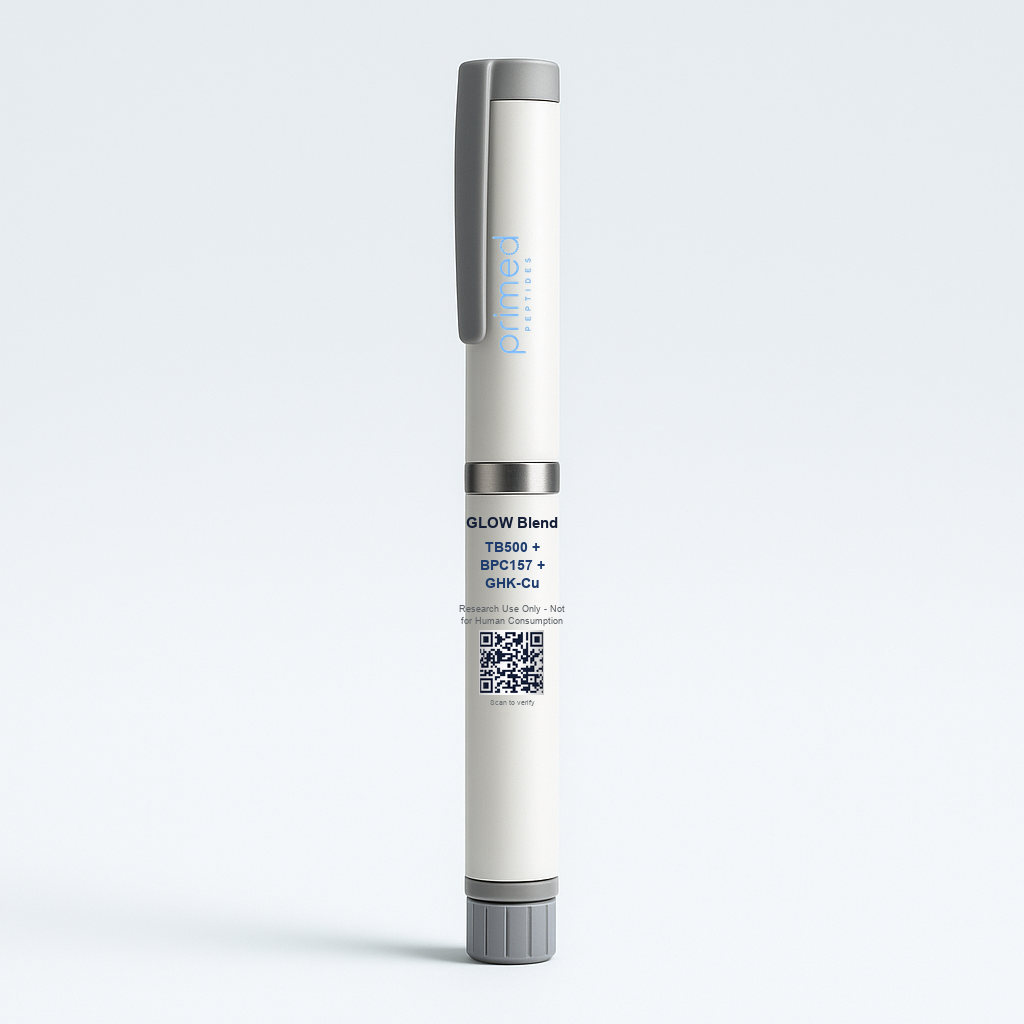
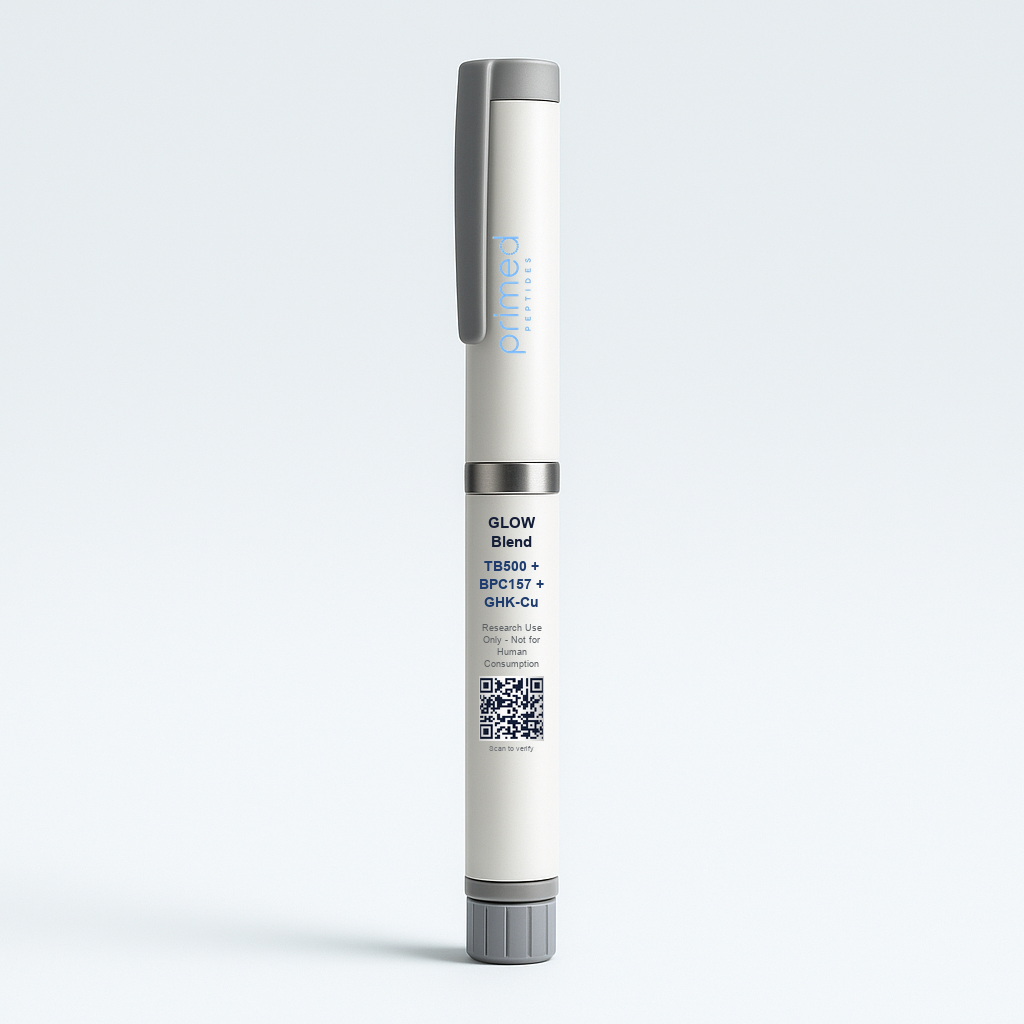
Fix pen-label text overflowing the real barrel width
LABEL_BOX (125px) is a loose estimate; rembg segmentation of the
master pen photo shows the real visible barrel is only ~93px wide
at every row in that region. A wrapped line could pass the box-width
check while still being wider than the whole physical barrel -
"Repair & Renewal" (109px) rendered half off the pen on Premium's
identical script, and GLOW's label had the same problem here.

Wrap/centre against the real measured barrel width now, with an
auto-shrinking font-fit fallback, and position the QR dynamically
below the text block instead of a fixed y (which collided with
fine print once labels started wrapping to more lines).

Changed region(s): [[0.4375, 0.5, 0.5625, 0.75]]

diff --git a/compose_pen_label.py b/compose_pen_label.py
@@ -39,6 +39,20 @@ LABEL_BOX = (450, 500, 575, 700)    # lower barrel segment, below silver band
 # so it's curved to look wrapped around the barrel instead of pasted flat.
 QR_BOX = (462, 630, 562, 695)
 
+# The LABEL_BOX above is a loose visual estimate; the pen's real visible
+# barrel within that y-range is much narrower (confirmed via rembg
+# segmentation of master_pen_blank.png: opaque pixels run x=465-558 at
+# every row from y=514 to y=690, a rock-steady ~93px). A wrapped line can
+# pass the box-width check (125px) while still being wider than the whole
+# physical barrel - this is the exact bug that put "Repair & Renewal"
+# (109px) half off the pen (2026-08-25). Wrap/centre against these real
+# measurements instead of LABEL_BOX's own width.
+REAL_BARREL_LEFT = 465
+REAL_BARREL_RIGHT = 558
+REAL_BARREL_CENTER = (REAL_BARREL_LEFT + REAL_BARREL_RIGHT) / 2
+LABEL_MARGIN = 6
+LABEL_MAX_W = (REAL_BARREL_RIGHT - REAL_BARREL_LEFT) - LABEL_MARGIN * 2
+
 
 def cylindrical_wrap(img, extent=0.92, shade_strength=0.21):
     """Horizontally warps a flat image to look wrapped around a cylinder
@@ -104,12 +118,7 @@ def main():
     # --- Label: precise text, drawn directly (guaranteed correct) ---
     draw = ImageDraw.Draw(pen)
     box_x0, box_y0, box_x1, box_y1 = LABEL_BOX
-    box_w = box_x1 - box_x0
-    cx = (box_x0 + box_x1) // 2
-
-    name_font = ImageFont.truetype(FONT_BOLD, 15)
-    dose_font = ImageFont.truetype(FONT_BOLD, 14)
-    fine_font = ImageFont.truetype(FONT_REG, 9)
+    cx = REAL_BARREL_CENTER
 
     def wrap_to_width(text, font, max_w):
         words = text.split()
@@ -126,10 +135,19 @@ def main():
             lines.append(cur)
         return lines
 
-    pad = 8
-    name_lines = wrap_to_width(product_name, name_font, box_w - pad * 2)
-    dose_lines = wrap_to_width(dosage_line, dose_font, box_w - pad * 2)
-    fine_lines = wrap_to_width("Research Use Only - Not for Human Consumption", fine_font, box_w - pad * 2)
+    def fit_and_wrap(text, font_path, start_size, max_w, min_size=8):
+        """Shrinks font size until every wrapped line actually fits the real
+        barrel width, instead of trusting the box estimate."""
+        for size in range(start_size, min_size - 1, -1):
+            font = ImageFont.truetype(font_path, size)
+            lines = wrap_to_width(text, font, max_w)
+            if all(draw.textlength(line, font=font) <= max_w for line in lines):
+                return lines, font
+        return lines, font
+
+    name_lines, name_font = fit_and_wrap(product_name, FONT_BOLD, 15, LABEL_MAX_W)
+    dose_lines, dose_font = fit_and_wrap(dosage_line, FONT_BOLD, 14, LABEL_MAX_W)
+    fine_lines, fine_font = fit_and_wrap("Research Use Only - Not for Human Consumption", FONT_REG, 9, LABEL_MAX_W)
 
     y = box_y0 + 14
     for line in name_lines:
@@ -150,6 +168,10 @@ def main():
     # --- QR code: links to the product-level COA verification page ---
     # Not meant to be scannable from this photo (the real QR goes on the
     # physical product's own label) - curved for visual realism instead.
+    # Positioned dynamically below wherever the text block actually ended -
+    # a fixed QR_BOX y-start collided with fine-print text once real-width
+    # wrapping started producing more lines for longer product names
+    # (2026-08-25, found fixing the "Repair & Renewal" overflow bug above).
     qr = qrcode.QRCode(border=1, box_size=10)
     qr.add_data(COA_URL)
     qr.make(fit=True)
@@ -158,7 +180,7 @@ def main():
     qr_img = qr_img.resize((qr_w, qr_h), Image.LANCZOS)
     qr_img = cylindrical_wrap(qr_img)
     qx = QR_BOX[0] + ((QR_BOX[2] - QR_BOX[0]) - qr_w) // 2
-    qy = QR_BOX[1]
+    qy = y + 6
     pen.alpha_composite(qr_img, (qx, qy))
     tiny_font = ImageFont.truetype(FONT_REG, 7)
     caption = "Scan to verify"
